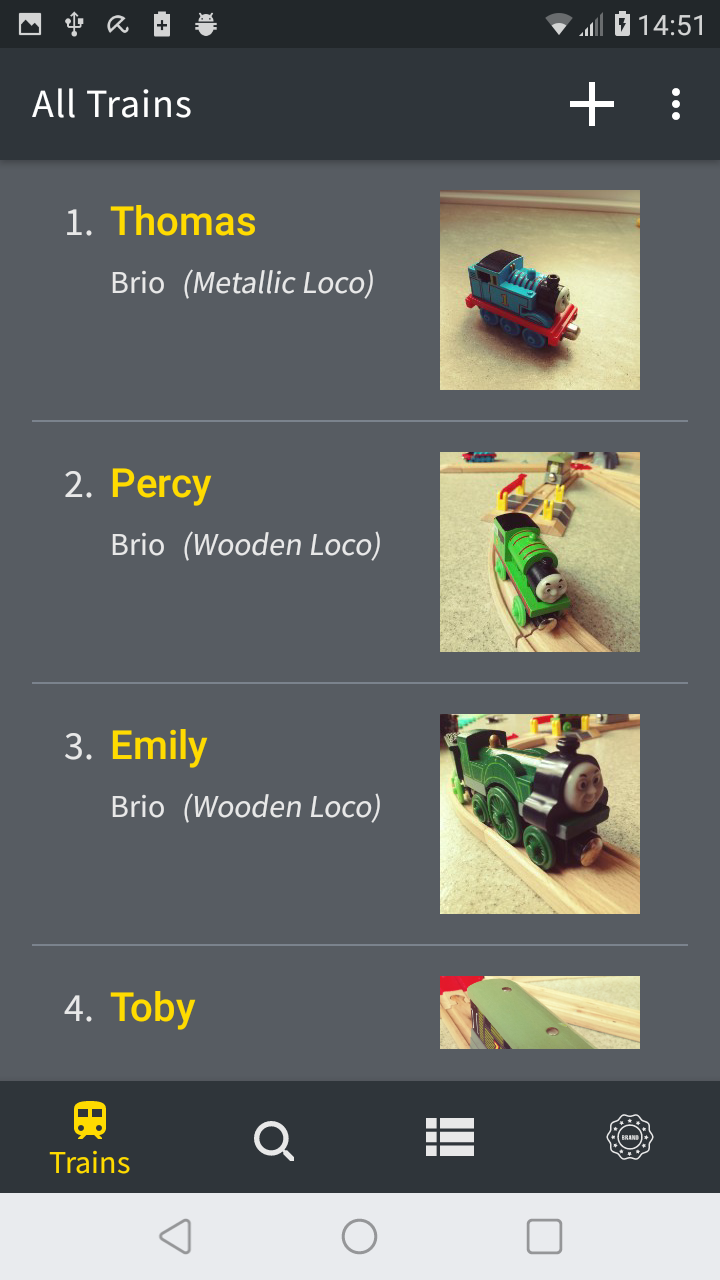
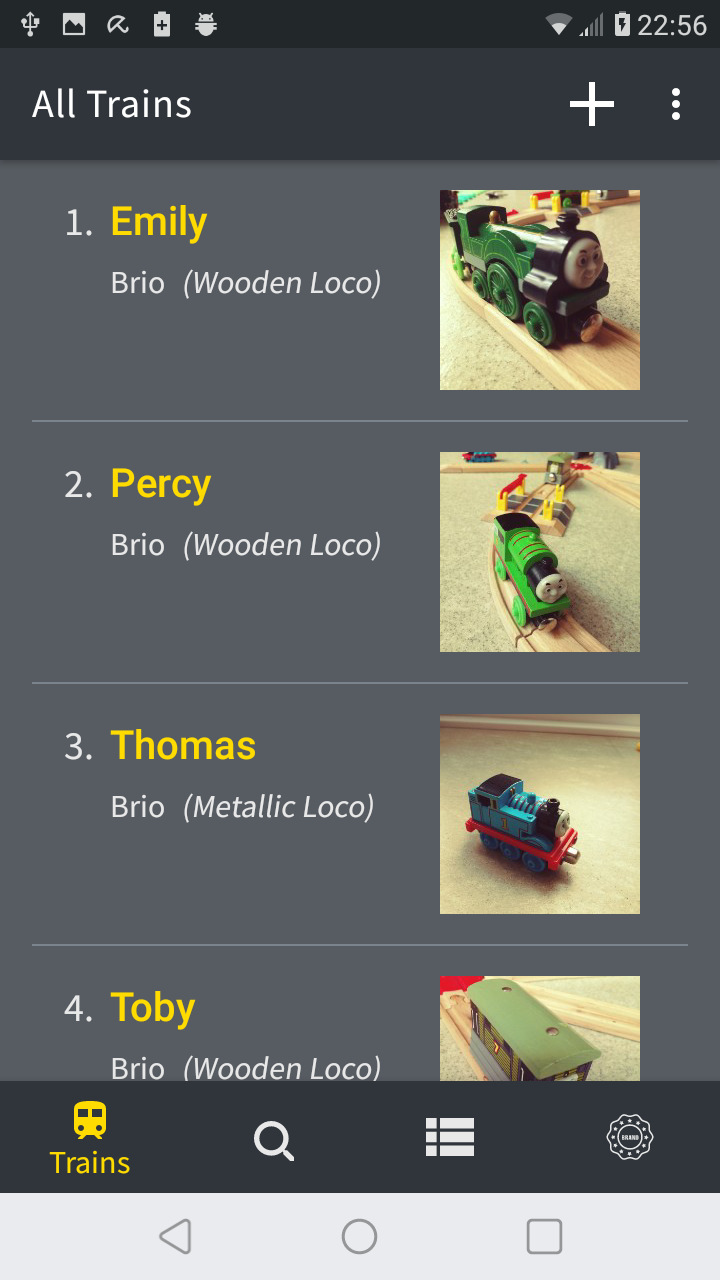
add more screenshots and minor visual improvements

diff --git a/app/src/main/java/com/canli/oya/traininventoryroom/utils/BindingAdapters.kt b/app/src/main/java/com/canli/oya/traininventoryroom/utils/BindingAdapters.kt
@@ -16,7 +16,6 @@ import com.canli.oya.traininventoryroom.R
 fun ImageView.setImageWithGlide(url: String?, placeHolder: Drawable) {
     GlideApp.with(context)
             .load(url)
-            .centerCrop()
             .placeholder(placeHolder)
             .into(this)
 }

diff --git a/README.md b/README.md
@@ -26,3 +26,8 @@ The repo contains lots of integration tests and also unit tests and it uses Gith
   <img src="screenshots/screenshot6.png" width="400" />
   <img src="screenshots/screenshot7.png" width="400" />
 </p>
+
+<p float="left">
+  <img src="screenshots/screenshot8.png" width="400" />
+  <img src="screenshots/screenshot9.png" width="400" />
+</p>
